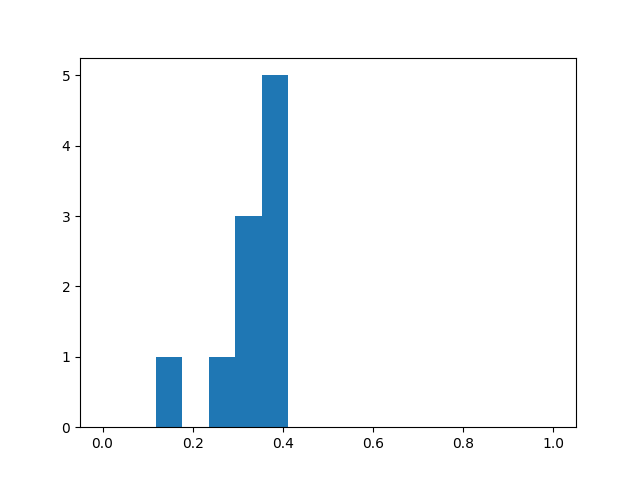
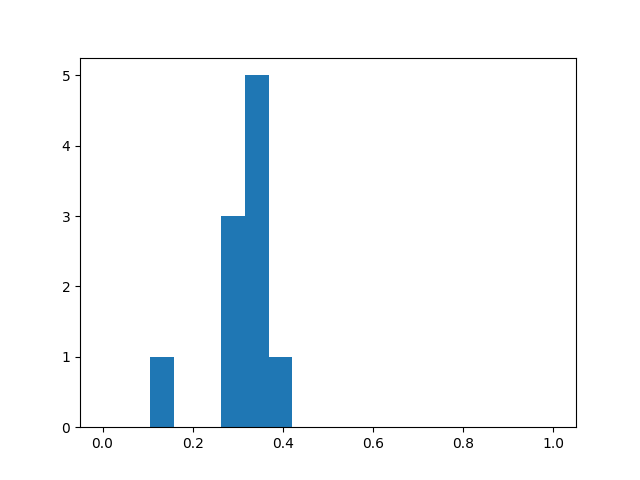
histograms of cifar for report

Changed region(s): [[0.3125, 0.1562, 0.4688, 0.9062], [0.2188, 0.75, 0.2812, 0.9062]]

diff --git a/cifar/correlation/correlation.py b/cifar/correlation/correlation.py
@@ -76,11 +76,19 @@ def plot_and_save(corr, name):
 
 untrain = Corrcoef(train0, untrained)
 plot_and_save(untrain, 'untrain')
-del untrain
 train = Corrcoef(train0, train1)
 plot_and_save(train, 'train')
-del train
-untrain_rev = Corrcoef(untrained, train0)
+untrain_rev = Corrcoef(untrained, train1)
 plot_and_save(untrain_rev, 'untrain_rev')
-del untrain_rev
 
+for i in range(6):
+  layer = ['h_conv1', 'h_conv2', 'h_conv3', 'h_conv4', 'h_fc1', 'y_conv'][i]
+  unt = absmax(getattr(untrain_rev, layer))
+  trd = absmax(getattr(train, layer))
+  plt.hist(trd, bins='auto', range=(0, 1), color='#0000FF80', density=True)
+  plt.hist(unt, bins='auto', range=(0, 1), color='#FF000080', density=True)
+  plt.xlabel('correlation r', fontsize=18)
+  plt.ylabel('proportion of neurons/Δr', fontsize=18)
+  plt.title(['conv1', 'conv2', 'conv3', 'conv4', 'fc1', 'fc2'][i], fontsize=18)
+  plt.savefig('paper_'+layer+'.png')
+  plt.clf()

diff --git a/cifar/linear/linear.py b/cifar/linear/linear.py
@@ -78,3 +78,17 @@ for net1 in networks:
         plt.savefig('multi_%s_%s_to_%s.png' % (layer, net1.name, net2.name))
         plt.clf()
 
+for i in range(6):
+  layer = layers[i]
+  unt = getattr(untrained, layer)
+  t0 = getattr(train0, layer)
+  t1 = getattr(train1, layer)
+  co_unt = corrcoef(unt, t1)
+  co_trd = corrcoef(t0, t1)
+  plt.hist(co_trd, bins='auto', range=(0, 1), color='#0000FF80', density=True)
+  plt.hist(co_unt, bins='auto', range=(0, 1), color='#FF000080', density=True)
+  plt.xlabel('correlation r', fontsize=18)
+  plt.ylabel('proportion of neurons/Δr', fontsize=18)
+  plt.title(['conv1', 'conv2', 'conv3', 'conv4', 'fc1', 'fc2'][i], fontsize=18)
+  plt.savefig('paper_multi_'+layer+'.png')
+  plt.clf()
